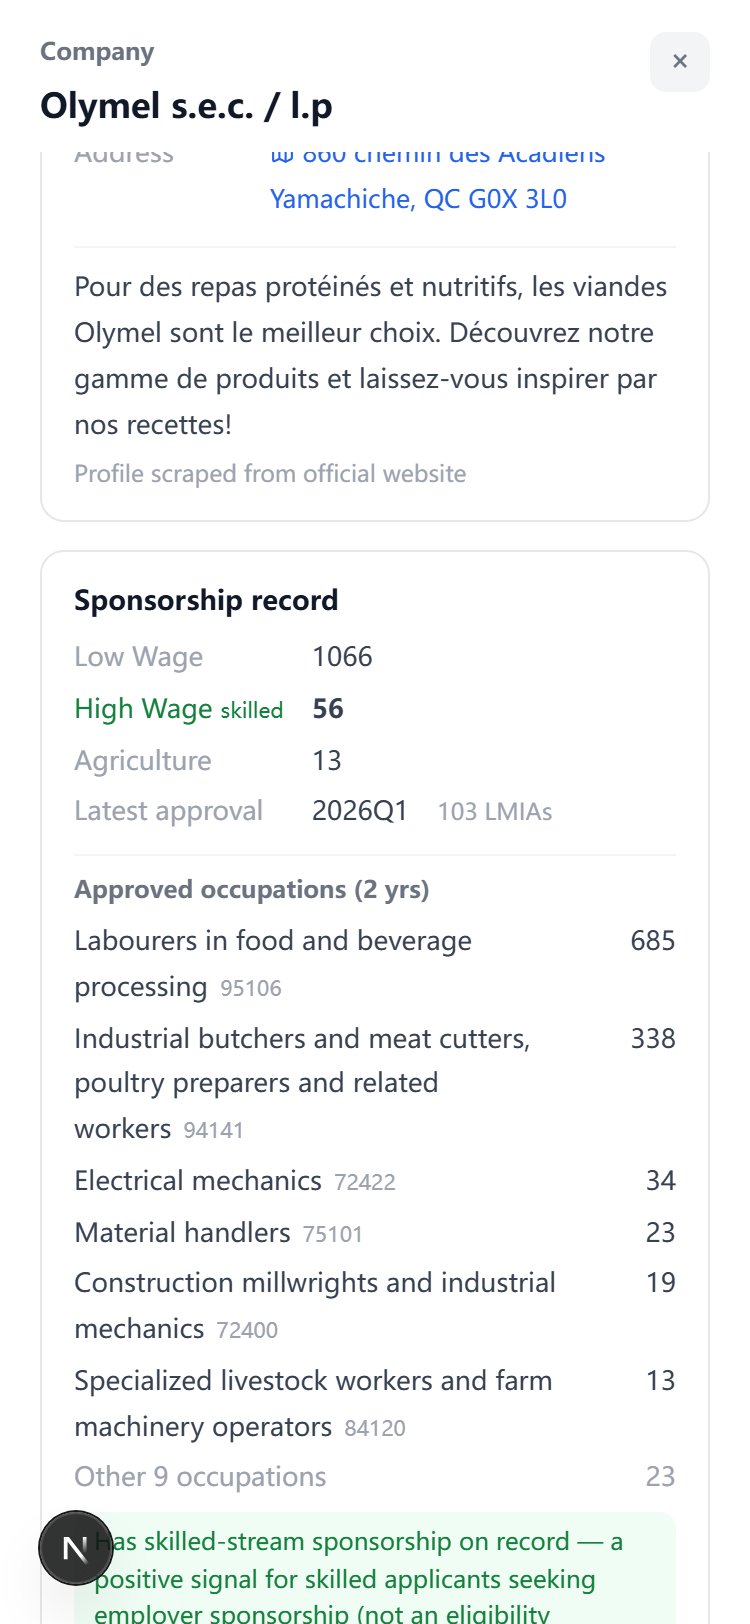
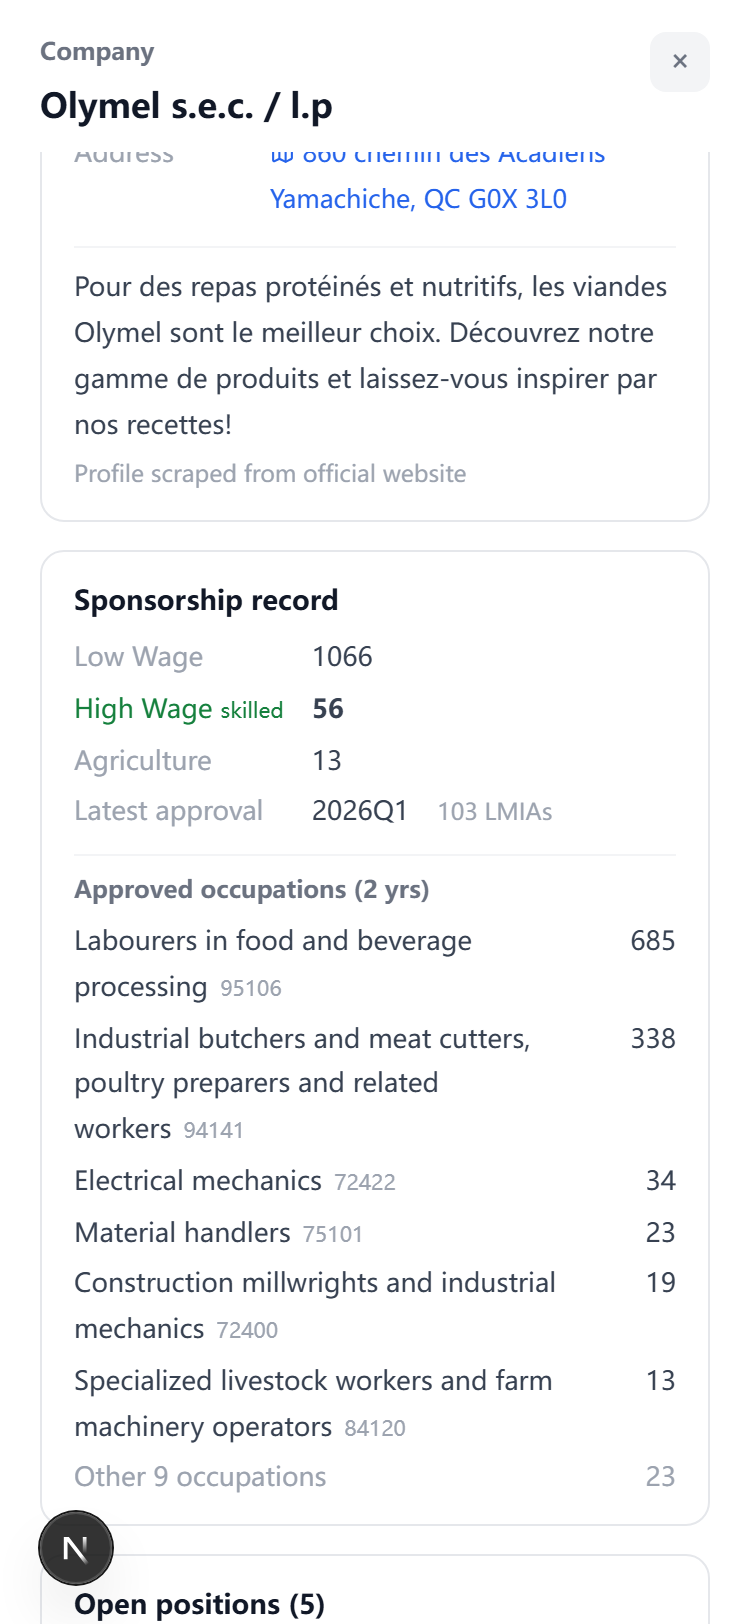
fix(web): LMIA 股别黑话清台面+担保记录卡解释彩条撤(Frank 08-09「高薪股是什么意思?用户一看就能明白,不要解释文字」)——①中文股别名去「股」(stream 硬译):高薪岗/低薪岗/农业岗/全球人才/支持 PR 申请;连坐清理:速览卡「技能股」→技能岗、匹配 chip「低薪股为主」→低薪岗为主、匹配理由行、JD 事实行「股别分布」→获批构成、对比页 tip;en/ko 官方词 stream 不动(英文自明);②co.spConc* 结论彩条三态整撤(数据行自己说话,技术类信号由「技术类」标签承担),死键三语清;③se286 效果图随新文案重拍。tsc+build 过

Changed region(s): [[0.092, 0.9236, 0.7973, 1.0]]

diff --git a/cms/src/app/(frontend)/jobs/i18n.ts b/cms/src/app/(frontend)/jobs/i18n.ts
@@ -101,16 +101,14 @@ const zh: Dict = {
   'co.crumb': '公司', 'co.basic': '基本信息', 'co.name': '公司名称', 'co.gov': '政府机构', 'co.wellKnown': '知名企业', 'co.notFound': '未找到这家公司,可能已从在招列表移除。', 'co.openJobs': '在招职位',
   // 担保记录深化 + 相似雇主(E8-09 加深)
   'co.spSub': '近两年官方 LMIA 获批(历史事实,非能担保判定)',
-  'co.spStream.high': '高薪股', 'co.spStream.gts': '全球人才股', 'co.spStream.pr': 'PR 支持股', 'co.spStream.low': '低薪股', 'co.spStream.agri': '农业股',
+  // 股别名去黑话(Frank 08-09「高薪股是什么意思?用户一看就能明白」):「股」=stream 硬译,清出台面
+  'co.spStream.high': '高薪岗', 'co.spStream.gts': '全球人才', 'co.spStream.pr': '支持 PR 申请', 'co.spStream.low': '低薪岗', 'co.spStream.agri': '农业岗',
   'co.spSkilledTag': '技术类', 'co.spQuarter': '最近获批', 'co.spBatchN': '{n} 份 LMIA',
   'co.spNocs': '获批职业(近两年)', 'co.spNocRest': '其余 {n} 个职业',
-  'co.spConcYes': '有技术类担保记录 —— 对想走雇主担保的技术岗求职者是正面信号(非资格认定,各省仍有自己的清单/工资门槛)。',
-  'co.spConcLow': '仅低薪或农业股担保 —— 多为季节性用工,对技术类担保参考有限。',
-  'co.spConcAip': 'AIP 指定雇主 —— 大西洋四省的雇主担保通道,无需 EE 分数。',
   'co.spSource': '来源:ESDC 正面 LMIA 雇主名录、IRCC',
   'co.similar': '相似雇主', 'co.similarSub': '同省同行业',
   'gr.dim.coSponsor': '担保记录', 'gr.dim.coActive': '在库活跃', 'gr.dim.coSalary': '薪资水平', 'gr.dim.coFame': '规模知名',
-  'gr.co.sp.d': '近两年获批 {total} 岗(技能股 {n};最近 {q})', 'gr.co.sp.aip': 'AIP 指定雇主(不走 LMIA 也具担保资格)', 'gr.co.sp.na': '近两年无公开获批记录(无记录≠不担保)',
+  'gr.co.sp.d': '近两年获批 {total} 岗(技能岗 {n};最近 {q})', 'gr.co.sp.aip': 'AIP 指定雇主(不走 LMIA 也具担保资格)', 'gr.co.sp.na': '近两年无公开获批记录(无记录≠不担保)',
   'gr.co.act.d': '在招 {open} 岗,近 30 天新发 {n}', 'gr.co.act.d1': '在招 1 岗,近 30 天新发 {n}', 'gr.co.sal.d': '在招岗帖面薪资平均较当地中位 {pct}%',
   'gr.co.fm.wiki': '维基收录', 'gr.co.fm.provs': '跨 {n} 省招聘', 'gr.co.fm.open': '在招 {n} 岗', 'gr.co.fm.open1': '在招 1 岗',
   // E12-08 尾巴(#126):公司四维行(拆解弹框参照区)
@@ -208,7 +206,7 @@ const zh: Dict = {
   'fact.noAddrNote': '该帖未提供街道地址(仅当帖内含街号才收录,不猜);地图按可得的最细层级定位',
   'fact.noDistrictNote': '「区」按大城市社区划分(如渥太华 Kanata/Nepean);该帖无社区名或高置信邮编,留空不猜',
   'fact.aipTech': '科技类',
-  'fact.lmiaNote': '历史事实,不代表现在能或愿意担保。', 'fact.lmiaStreams': '股别分布',
+  'fact.lmiaNote': '历史事实,不代表现在能或愿意担保。', 'fact.lmiaStreams': '获批构成',
   'lmia.route': '本岗 LMIA 前瞻', 'lmia.official': '官方冻结口径',
   'lmia.high': '高薪类:不受 2024 低薪冻结影响,LMIA 路径完整', 'lmia.exempt': '低薪但属豁免行业(农业/建筑/食品/医疗/看护):仍可受理',
   'lmia.lowFrozen': '低薪类:若岗位所在为高失业大都市区(每季更新),新 LMIA 可能暂停受理',
@@ -233,7 +231,7 @@ const zh: Dict = {
   'mm.v.noDraw': '暂无类别抽选记录', 'mm.v.fillCrs': '填 CRS 可比差距', 'mm.v.crsAbove': '高出 {diff} 分', 'mm.v.crsBelow': '差 {gap} 分', 'mm.v.fillCrsThen': '填 CRS 后可比',
   'mm.v.teerOk': '技能岗通用粗筛', 'mm.v.teerChannel': '{stream}通道覆盖', 'mm.v.teerLow': '低技能层级',
   'mm.v.wageAbove': '高于中位 {pct}%', 'mm.v.wageNear': '低于中位 {pct}%', 'mm.v.wageBelow': '低于中位 {pct}%', 'mm.v.wageNa': '官方无该职业当地中位数据,无法对比',
-  'mm.v.lmiaHas': '招过外劳', 'mm.v.lmiaLow': '低薪股为主', 'mm.v.lmiaNa': '中性信号', 'mm.v.lmiaNaTip': '多数雇主从未办过 LMIA,不是负面信号',
+  'mm.v.lmiaHas': '招过外劳', 'mm.v.lmiaLow': '低薪岗为主', 'mm.v.lmiaNa': '中性信号', 'mm.v.lmiaNaTip': '多数雇主从未办过 LMIA,不是负面信号',
   'fact.nocTitle': '官方职业名', 'fact.nocDuties': '官方主要职责(NOC)', 'fact.nocReqs': '任职要求(NOC)',
   // TEER 档名照 IRCC 官方表逐条核(2026-07-26 实核 canada.ca/…/find-national-occupation-code):
   // TEER2 官方含 **supervisory 主管岗**(不需大专/学徒也算),原标签漏了这一档 —— 做到主管的人会误以为自己不够格。
@@ -625,8 +623,8 @@ const zh: Dict = {
   'match.r.wage.below': '本岗薪资低于当地中位 {pct}%——留意省提名对工资的要求',
   'match.r.wage.na': '无薪资/中位数据可比',
   'match.r.lmia.has': '雇主近两年有 {n} 个获批 LMIA 职位(最近 {q},ESDC 公开数据)——历史事实,不代表现在能/愿担保',
-  'match.r.lmia.skilled': '雇主近两年有 {n} 个技能股(High Wage/GTS)获批 LMIA 职位(全股别共 {total},最近 {q},ESDC 公开数据)——历史事实,不代表现在能/愿担保',
-  'match.r.lmia.lowOnly': '雇主近两年的 {n} 个 LMIA 获批职位均为农业/低薪股(最近 {q})——多为季节性用工,对技能类担保参考意义低,不加分',
+  'match.r.lmia.skilled': '雇主近两年有 {n} 个技能岗(高薪/全球人才)获批 LMIA 职位(共 {total},最近 {q},ESDC 公开数据)——历史事实,不代表现在能/愿担保',
+  'match.r.lmia.lowOnly': '雇主近两年的 {n} 个 LMIA 获批职位均为农业或低薪岗(最近 {q})——多为季节性用工,对技能类担保参考意义低,不加分',
   'match.r.lmia.na': '该雇主近两年无获批 LMIA 记录(多数雇主从未办过,非负面信号)',
   // 付费墙(E3-05)
   // E8-10:三个弹框的页眉分组名(收编后标题不再取被点单元格的值)
@@ -689,7 +687,7 @@ const zh: Dict = {
   'pw.bnRoutes': '条路径方案', 'rank.bnBoards': '个榜单', 'stats.bnProvs': '省全覆盖', 'stats.bnBroads': '职业大类',
   // B4-01 实体名录(雇主名录 + 紧缺职业清单)
   'dir.title': '雇主名录',
-  'dir.col.employer': '雇主', 'dir.col.skilled': '高技能岗获批(近两年)', 'dir.col.quarter': '最近季度', 'dir.col.skilled.tip': '高薪(High Wage)与全球人才(Global Talent)股别的 LMIA 获批职位数——不含农业/低薪季节工;想找愿意办技能类工作担保的雇主,看这个数',
+  'dir.col.employer': '雇主', 'dir.col.skilled': '高技能岗获批(近两年)', 'dir.col.quarter': '最近季度', 'dir.col.skilled.tip': '高薪(High Wage)与全球人才(Global Talent)通道的 LMIA 获批职位数——不含农业/低薪季节工;想找愿意办技能类工作担保的雇主,看这个数',
   'dir.occ.title': '紧缺职业清单', 'dir.occ.sub': '各省具体通道的职业清单,随官方页面周更',
   'dir.occ.note': '清单命中是粗筛信号,不是资格认定。',
   'dir.occ.colStream': '通道', 'dir.occ.colNoc': 'NOC', 'dir.occ.colName': '职业', 'dir.occ.fetched': '抓取 {d}', 'dir.occ.src': '官方清单',
@@ -977,9 +975,6 @@ const en: Dict = {
   'co.spStream.high': 'High Wage', 'co.spStream.gts': 'Global Talent', 'co.spStream.pr': 'PR-support', 'co.spStream.low': 'Low Wage', 'co.spStream.agri': 'Agriculture',
   'co.spSkilledTag': 'skilled', 'co.spQuarter': 'Latest approval', 'co.spBatchN': '{n} LMIAs',
   'co.spNocs': 'Approved occupations (2 yrs)', 'co.spNocRest': 'Other {n} occupations',
-  'co.spConcYes': 'Has skilled-stream sponsorship on record — a positive signal for skilled applicants seeking employer sponsorship (not an eligibility decision; provinces still have their own lists / wage floors).',
-  'co.spConcLow': 'Only Low Wage / Agriculture streams on record — mostly seasonal hiring, limited relevance for skilled sponsorship.',
-  'co.spConcAip': 'AIP designated employer — the Atlantic employer-driven route, no Express Entry score needed.',
   'co.spSource': 'Source: ESDC positive-LMIA employer list, IRCC',
   'co.similar': 'Similar employers', 'co.similarSub': 'same province and industry',
   'gr.dim.coSponsor': 'Sponsorship record', 'gr.dim.coActive': 'Hiring activity', 'gr.dim.coSalary': 'Pay level', 'gr.dim.coFame': 'Scale & profile',
@@ -1828,12 +1823,9 @@ const ko: Dict = {
   'co.grades': '고용주 신호',
   'co.crumb': '회사', 'co.basic': '기본 정보', 'co.name': '회사명', 'co.gov': '정부 기관', 'co.wellKnown': '유명 기업', 'co.notFound': '이 회사를 찾을 수 없습니다 — 채용 목록에서 제거되었을 수 있습니다.', 'co.openJobs': '채용 중 공고',
   'co.spSub': '최근 2년 공식 LMIA 승인(과거 사실이며 스폰서 보장 아님)',
-  'co.spStream.high': 'High Wage', 'co.spStream.gts': 'Global Talent', 'co.spStream.pr': 'PR 지원', 'co.spStream.low': 'Low Wage', 'co.spStream.agri': '농업',
+  'co.spStream.high': '고임금', 'co.spStream.gts': 'Global Talent', 'co.spStream.pr': 'PR 신청 지원', 'co.spStream.low': '저임금', 'co.spStream.agri': '농업',
   'co.spSkilledTag': '기술직', 'co.spQuarter': '최근 승인', 'co.spBatchN': '{n}건 LMIA',
   'co.spNocs': '승인 직종(최근 2년)', 'co.spNocRest': '기타 {n}개 직종',
-  'co.spConcYes': '기술직 스트림 스폰서 이력 있음 — 고용주 스폰서를 원하는 기술직 지원자에게 긍정적 신호(자격 판정 아님, 주별 목록·급여 기준은 별도).',
-  'co.spConcLow': 'Low Wage / 농업 스트림만 있음 — 대부분 계절성 고용으로 기술직 스폰서 참고도 제한적.',
-  'co.spConcAip': 'AIP 지정 고용주 — 대서양 4주 고용주 주도 경로, EE 점수 불필요.',
   'co.spSource': '출처: ESDC 긍정 LMIA 고용주 목록, IRCC',
   'co.similar': '유사 고용주', 'co.similarSub': '같은 주·업종',
   'gr.dim.coSponsor': '스폰서 기록', 'gr.dim.coActive': '채용 활발도', 'gr.dim.coSalary': '급여 수준', 'gr.dim.coFame': '규모·인지도',

diff --git a/cms/src/app/(frontend)/jobs/JobsTable.tsx b/cms/src/app/(frontend)/jobs/JobsTable.tsx
@@ -2428,9 +2428,7 @@ export function CompanyBody({ company, similar, t, lang, showTrans, hideTopInfo,
   const aip = !!company.scoreDetail?.sponsor?.v?.aip
   const showSponsor = (company.lmiaPositions ?? 0) > 0 || aip
   const streams = parseCoStreams(company.lmiaStreams, t)
-  const conc = (company.lmiaSkilled ?? 0) > 0 ? { key: 'co.spConcYes', bg: '#f0fdf4', fg: '#15803d' }
-    : (company.lmiaPositions ?? 0) > 0 ? { key: 'co.spConcLow', bg: '#fffbeb', fg: '#b45309' }
-    : { key: 'co.spConcAip', bg: '#f0fdf4', fg: '#15803d' }
+  // 结论彩条(co.spConc*)2026-08-09 Frank「不要解释文字」整条撤:数据行自己说话,技术类信号由「技术类」标签承担
   const nocLocal = (j: CompanyDetail['jobs'][number]) => ((lang === 'zh' ? j.nocTitleZh : lang === 'ko' ? j.nocTitleKo : '') || j.nocTitle)
   const extTarget = onOpenJob ? '_blank' : undefined   // 弹框内跳页新开(别关掉弹框);页面同标签
   // #197(Frank「这两部分合并」+「AI 声明放按钮下」):身份(官网/地址/行业)与公司简介合成一块「公司」;
@@ -2533,8 +2531,7 @@ export function CompanyBody({ company, similar, t, lang, showTrans, hideTopInfo,
                 </>
               )
             })()}
-            {/* #200(Frank「这个废话也是」):来源行(ESDC 名录、IRCC)撤 */}
-            <div style={{ fontSize: 12, color: conc.fg, background: conc.bg, borderRadius: 8, padding: '6px 10px', margin: '6px 0 0', lineHeight: 1.55 }}>{t(conc.key)}</div>
+            {/* #200 来源行撤;结论彩条 08-09 随「不要解释文字」拍板撤(见上) */}
           </div>
         </div>
       )}
